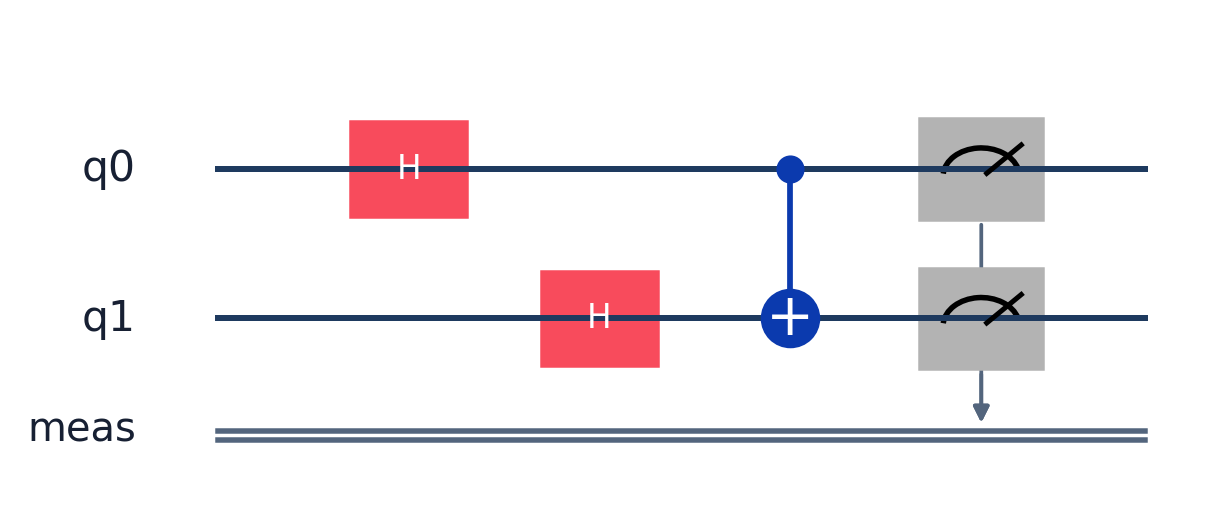
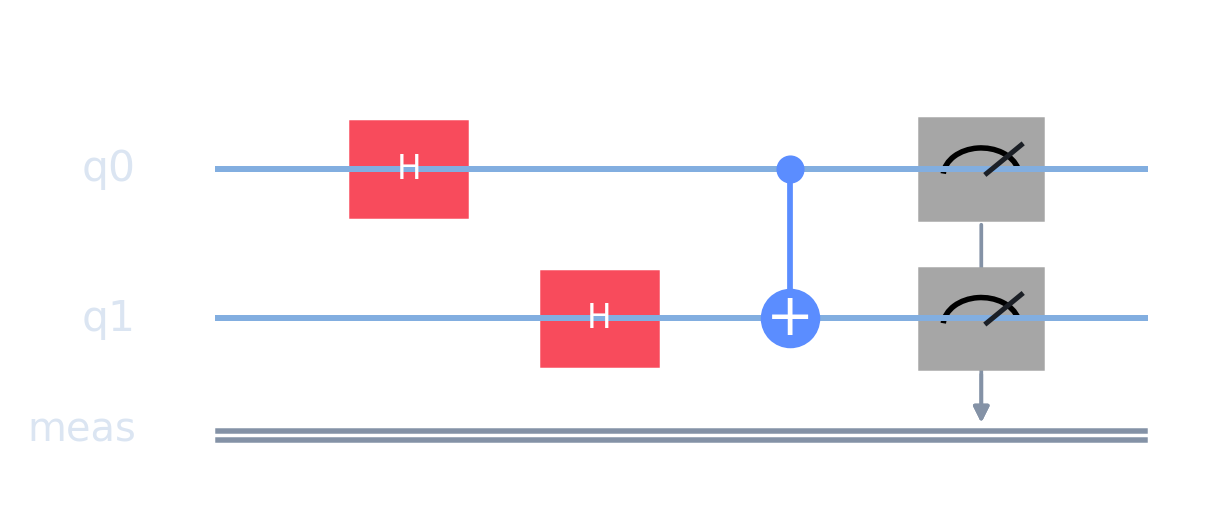
Make circuit diagrams transparent

diff --git a/docs/site.css b/docs/site.css
@@ -215,11 +215,11 @@ code {
   margin: 0.7rem 0 0;
   display: inline-block;
   max-width: 100%;
-  padding: 6px;
+  padding: 0;
   line-height: 0;
-  background: rgba(255, 255, 255, 0.05);
-  border: 1px solid var(--border);
-  border-radius: 6px;
+  background: transparent;
+  border: 0;
+  border-radius: 0;
   overflow: hidden;
 }
 .circuit-fig img {
@@ -230,8 +230,7 @@ code {
   max-height: 260px;
   object-fit: contain;
   object-position: left center;
-  background: #fff;
-  border-radius: 4px;
+  background: transparent;
 }
 .moment--quantum:hover .circuit-fig img {
   filter: brightness(1.06);

diff --git a/scripts/render_circuit_diagrams.py b/scripts/render_circuit_diagrams.py
@@ -16,12 +16,13 @@ from typing import Any
 ROOT = Path(__file__).resolve().parent.parent
 OUT_DIR = ROOT / "docs" / "circuits"
 
-BLUE = "#123a63"
-WIRE = "#1e3a5f"
-CLASSICAL = "#53657d"
+WIRE = "#82aee0"
+CLASSICAL = "#8492a6"
 GATE = "#f84b5c"
 ROT = "#a9165a"
-MEASURE = "#b3b3b3"
+MEASURE = "#a6a6a6"
+LABEL = "#dbe5f2"
+CX = "#5b8dff"
 
 # (filename stem, qubits, gates) - same IR as the Rust game crate.
 GAMEPLAY_CIRCUITS: list[tuple[str, int, list[dict[str, Any]]]] = [
@@ -101,8 +102,8 @@ def render_circuit(stem: str, qubits: int, gates: list[dict[str, Any]]) -> None:
     width = columns * 1.25 + 1.7
     height = qubits * 0.9 + 1.6
     fig, ax = plt.subplots(figsize=(width, height), dpi=180)
-    fig.patch.set_facecolor("white")
-    ax.set_facecolor("white")
+    fig.patch.set_alpha(0)
+    ax.set_facecolor("none")
     ax.axis("off")
 
     y_positions = {q: qubits - q - 1 for q in range(qubits)}
@@ -111,12 +112,12 @@ def render_circuit(stem: str, qubits: int, gates: list[dict[str, Any]]) -> None:
 
     for q, y in y_positions.items():
         ax.plot([x_start, x_end], [y, y], color=WIRE, lw=2.4)
-        ax.text(0.35, y, f"q{q}", ha="right", va="center", fontsize=17, color="#172033")
+        ax.text(0.35, y, f"q{q}", ha="right", va="center", fontsize=17, color=LABEL)
 
     c_y = -0.75
     ax.plot([x_start, x_end], [c_y, c_y], color=CLASSICAL, lw=2.2)
     ax.plot([x_start, x_end], [c_y - 0.06, c_y - 0.06], color=CLASSICAL, lw=2.2)
-    ax.text(0.35, c_y, "meas", ha="right", va="center", fontsize=16, color="#172033")
+    ax.text(0.35, c_y, "meas", ha="right", va="center", fontsize=16, color=LABEL)
 
     for index, gate in enumerate(gates, start=1):
         x = x_start + index * 1.05
@@ -124,9 +125,9 @@ def render_circuit(stem: str, qubits: int, gates: list[dict[str, Any]]) -> None:
             control, target = _cx(gate)
             y1 = y_positions[control]
             y2 = y_positions[target]
-            ax.plot([x, x], [y1, y2], color="#0b3aae", lw=2.3)
-            ax.scatter([x], [y1], s=105, color="#0b3aae", zorder=5)
-            ax.scatter([x], [y2], s=520, color="#0b3aae", zorder=5)
+            ax.plot([x, x], [y1, y2], color=CX, lw=2.3)
+            ax.scatter([x], [y1], s=105, color=CX, zorder=5)
+            ax.scatter([x], [y2], s=520, color=CX, zorder=5)
             ax.text(x, y2, "+", ha="center", va="center", fontsize=23, color="white", zorder=6)
             continue
 
@@ -148,7 +149,7 @@ def render_circuit(stem: str, qubits: int, gates: list[dict[str, Any]]) -> None:
         )
         ax.add_patch(rect)
         ax.add_patch(Arc((measure_x, y - 0.05), 0.42, 0.38, theta1=15, theta2=175, lw=2.2))
-        ax.plot([measure_x + 0.03, measure_x + 0.22], [y - 0.03, y + 0.16], color="black", lw=2.0)
+        ax.plot([measure_x + 0.03, measure_x + 0.22], [y - 0.03, y + 0.16], color="#1b1f26", lw=2.0)
         ax.add_patch(
             FancyArrowPatch(
                 (measure_x, y - 0.34),
@@ -163,7 +164,7 @@ def render_circuit(stem: str, qubits: int, gates: list[dict[str, Any]]) -> None:
     ax.set_xlim(0, x_end + 0.2)
     ax.set_ylim(c_y - 0.45, qubits - 0.05)
     png_path = OUT_DIR / f"{stem}.png"
-    fig.savefig(png_path, facecolor="white", edgecolor="none", bbox_inches="tight", pad_inches=0.15)
+    fig.savefig(png_path, transparent=True, edgecolor="none", bbox_inches="tight", pad_inches=0.15)
     plt.close(fig)
     print(f"  OK {stem} -> {png_path.name}")
 
